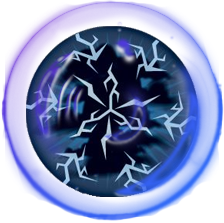
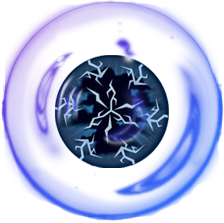
add image enemies chase

diff --git a/src/spaceSurvival/model/gameObject/factories/ConcreteFactoryGameObject.java b/src/spaceSurvival/model/gameObject/factories/ConcreteFactoryGameObject.java
@@ -28,6 +28,7 @@ import spaceSurvival.model.worldEcollisioni.physics.components.PickablePhysicsCo
 import spaceSurvival.utilities.dimension.ScaleOf;
 import spaceSurvival.utilities.dimension.Screen;
 import spaceSurvival.utilities.pathImage.Enemies;
+import spaceSurvival.utilities.pathImage.Skin.SkinChase;
 import spaceSurvival.utilities.pathImage.Skin.SkinPerk;
 
 
@@ -55,7 +56,7 @@ public class ConcreteFactoryGameObject extends AbstractFactoryGameObject {
 
 	@Override
 	public MainGameObject createChaseEnemy() {
-		EngineImage engineImage = new EngineImage(ScaleOf.GAME_OBJECT, Screen.WIDTH_FULL_SCREEN, Enemies.CHASE);
+		EngineImage engineImage = new EngineImage(ScaleOf.GAME_OBJECT, Screen.WIDTH_FULL_SCREEN, SkinChase.POOH0);
 		P2d position = new P2d(200, 200);//GameObjectUtils.generateSpawnPoint(engineImage.getSize());
 		V2d velocity = GameObjectUtils.CHASE_ENEMY_VEL;
 		Movement movement = new ChasingMovement();
@@ -64,7 +65,7 @@ public class ConcreteFactoryGameObject extends AbstractFactoryGameObject {
 		Optional<Weapon> weapon = Optional.empty();
 		
 		return new ChaseEnemy(engineImage, position, new RectBoundingBox(), new ChaseEnemyPhysicsComponent(),
-				velocity, movement, life, impactDamage, weapon);
+				velocity, movement, life, impactDamage, weapon, SkinChase.LIST_POOH);
 	}
 
 
@@ -87,7 +88,7 @@ public class ConcreteFactoryGameObject extends AbstractFactoryGameObject {
 
 	@Override
 	public MainGameObject createBoss() {
-		EngineImage engineImage = new EngineImage(ScaleOf.GAME_OBJECT, Screen.WIDTH_FULL_SCREEN, Enemies.CHASE);
+		EngineImage engineImage = new EngineImage(ScaleOf.GAME_OBJECT, Screen.WIDTH_FULL_SCREEN, SkinChase.CHASE0);
 		P2d position = GameObjectUtils.generateSpawnPoint(engineImage.getSize());
 		V2d velocity = GameObjectUtils.BOSS_VEL;
 		Movement movement = new DistantMovement();
@@ -103,7 +104,7 @@ public class ConcreteFactoryGameObject extends AbstractFactoryGameObject {
 
 	@Override
 	public PickableGameObject createPickable() {
-		final EngineImage engineImage = new EngineImage(ScaleOf.GAME_OBJECT, Screen.WIDTH_FULL_SCREEN, SkinPerk.FIRE);
+		final EngineImage engineImage = new EngineImage(ScaleOf.GAME_OBJECT, Screen.WIDTH_FULL_SCREEN, SkinPerk.ICE);
 		final P2d position = new P2d(450, 450);
 	 	final EffectType effectType = EffectType.random();
 		

diff --git a/src/spaceSurvival/utilities/pathImage/Skin/SkinChase.java b/src/spaceSurvival/utilities/pathImage/Skin/SkinChase.java
@@ -1,4 +1,21 @@
 package spaceSurvival.utilities.pathImage.Skin;
 
+import java.nio.file.Paths;
+import java.util.List;
+
 public class SkinChase {
+    public static final String MAIN_FOLDER = "gameObjects";
+    public static final String ENEMIES = "enemies";
+    public static final String TYPE = "chase";
+
+    public static final String CHASE0 = Paths.get(MAIN_FOLDER, ENEMIES, TYPE, "chase.png").toString();
+
+    public static final String POOH0 = Paths.get(MAIN_FOLDER, ENEMIES, TYPE, "pooh_1.png").toString();
+    public static final String POOH1 = Paths.get(MAIN_FOLDER, ENEMIES, TYPE, "pooh_2.png").toString();
+    public static final String POOH2 = Paths.get(MAIN_FOLDER, ENEMIES, TYPE, "pooh_3.png").toString();
+    public static final String POOH3 = Paths.get(MAIN_FOLDER, ENEMIES, TYPE, "pooh_4.png").toString();
+    public static final String POOH4 = Paths.get(MAIN_FOLDER, ENEMIES, TYPE, "pooh_5.png").toString();
+    public static final String POOH5 = Paths.get(MAIN_FOLDER, ENEMIES, TYPE, "pooh_6.png").toString();
+
+    public static final List<String> LIST_POOH = List.of(POOH0, POOH1, POOH2, POOH3, POOH4, POOH5);
 }

diff --git a/src/spaceSurvival/model/gameObject/mainGameObject/ChaseEnemy.java b/src/spaceSurvival/model/gameObject/mainGameObject/ChaseEnemy.java
@@ -1,5 +1,6 @@
 package spaceSurvival.model.gameObject.mainGameObject;
 
+import java.util.List;
 import java.util.Optional;
 
 import spaceSurvival.model.gameObject.GameObjectUtils;
@@ -20,6 +21,15 @@ public class ChaseEnemy extends MainGameObject {
 		
 		super(engineImage, position, bb, phys, velocity, movement, life, impactDamage, weapon);
     	this.setBoundingBox(GameObjectUtils.createRectBoundingBox(position, engineImage, this.getTransform()));
+	}
+
+	public ChaseEnemy(final EngineImage engineImage, final P2d position, final BoundingBox bb,
+					  final PhysicsComponent phys, final V2d velocity, final Movement movement, final int life,
+					  final int impactDamage, final Optional<Weapon> weapon, final List<String> animation) {
+
+		super(engineImage, position, bb, phys, velocity, movement, life, impactDamage, weapon);
+		this.setBoundingBox(GameObjectUtils.createRectBoundingBox(position, engineImage, this.getTransform()));
+		this.setAnimation(animation);
 	}
 	
 	@Override

diff --git a/src/spaceSurvival/utilities/pathImage/Skin/SkinAsteroid.java b/src/spaceSurvival/utilities/pathImage/Skin/SkinAsteroid.java
@@ -1,4 +1,5 @@
 package spaceSurvival.utilities.pathImage.Skin;
 
 public class SkinAsteroid {
+
 }
